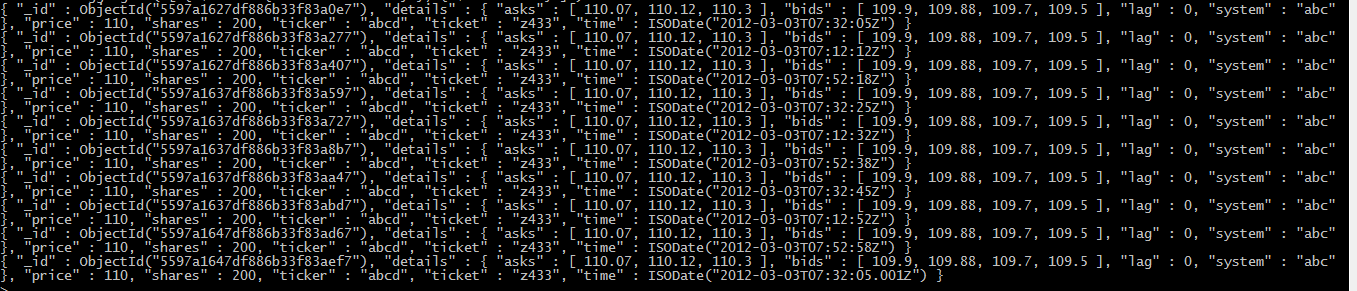
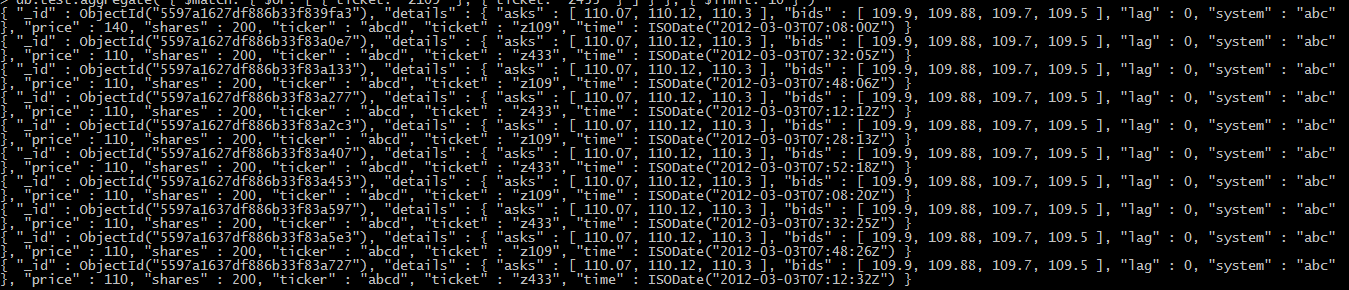
dodano sumowanie i sortowanie

diff --git a/docs/pages/zad2.html b/docs/pages/zad2.html
@@ -38,6 +38,7 @@
 					<li><a href="#mdb-lm5">szukanie danych</a></li>
 					<li><a href="#mdb-lm6">sortowanie konretnych danych</a></li>
 					<li><a href="#mdb-lm7">sumowanie</a></li>
+					<li><a href="#mdb-lm8">sumowanie i sortowanie</a></li>
 				</ul>
 				<li><a href="#mdb-mb">mongoDB (Marek Białousz)</a></li>
 				<ul>
@@ -160,10 +161,10 @@ db.test.aggregate( { $sort: { price: -1 } }, { $limit: 10 } )
 		</br>
 		<h3 id="mdb-lm5">szukanie danych</h3>
 		<p>
-			Wyświetlimy dane gdzie <i>ticket</i> jest równe <i>z433</i>:
+			Wyświetlimy dane gdzie <i>ticket</i> jest równe <i>z109</i> lub <i>z433</i>:
 			<div class="command">
 				<code>
-db.test.aggregate( { $match: { ticket: "z433" } }, { $limit: 10 } )
+db.test.aggregate( { $match: { $or: [ { ticket: "z109" }, { ticket: "z433" } ] } }, { $limit: 10 } )
 				</code>
 			</div>
 			To zapytanie również zostało wykonane w mgnieniu oka.
@@ -194,7 +195,6 @@ db.test.aggregate( { $match: { ticket: "z109" } }, { $sort: { price: -1 } }, { $
 		</p>
 		<h3 id="mdb-lm6">sumowanie</h3>
 		<p>
-		<p>
 			Będziemy teraz sumować ceny w danych, w tym celu musimy pogrupować dane wg biletów, polecenie:
 			<div class="command">
 				<code>
@@ -210,6 +210,22 @@ db.test.aggregate( { $group: { _id: "$ticket", total: { $sum: "$price" } } } )
 			</div>
 			<div class="description-image">Wynik sumowania danych w MongoDB</div>
 		</p>
+		<h3 id="mdb-lm8">sumowanie i sortowanie</h3>
+		<p>
+			Tym razem chcemy sprawdzić jakie 10 biletów zostało wysprzedanych najlepiej, do tego celu użyjemy polecenia:
+			<div class="command">
+				<code>
+db.test.aggregate( { $group: { _id: "$ticket", total: { $sum: "$price" } } }, { $sort: { total: -1 } } )
+				</code>
+			</div>
+			Wykonanie trwało ok. 5 sekund.
+			</br></br>
+			Ostatecznie uzyskano:
+			</br></br>
+			<div class="text-center">
+				<img src="../images/screen24.PNG" height="250em" width="300em">
+			</div>
+			<div class="description-image">Wynik sumowania danych w MongoDB</div>
 		</p>
 		<h2 id="mdb-mb">mongoDB (Marek Białousz)</h2>		
 	</div>
